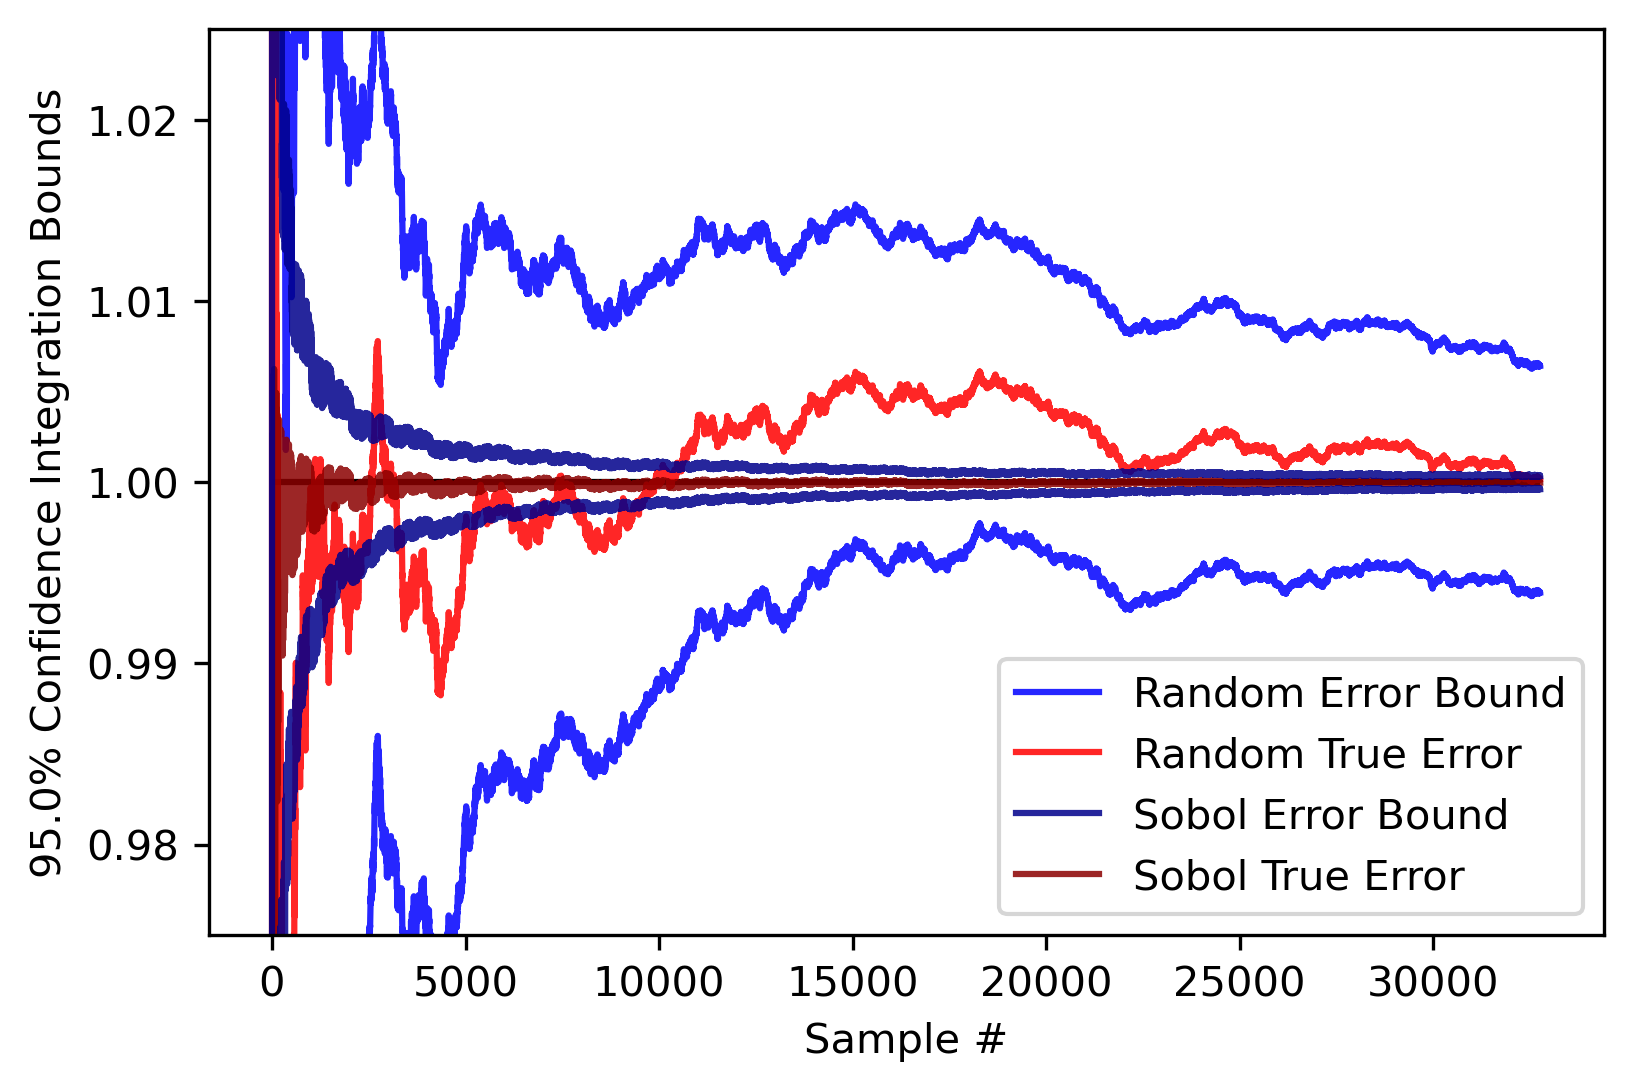
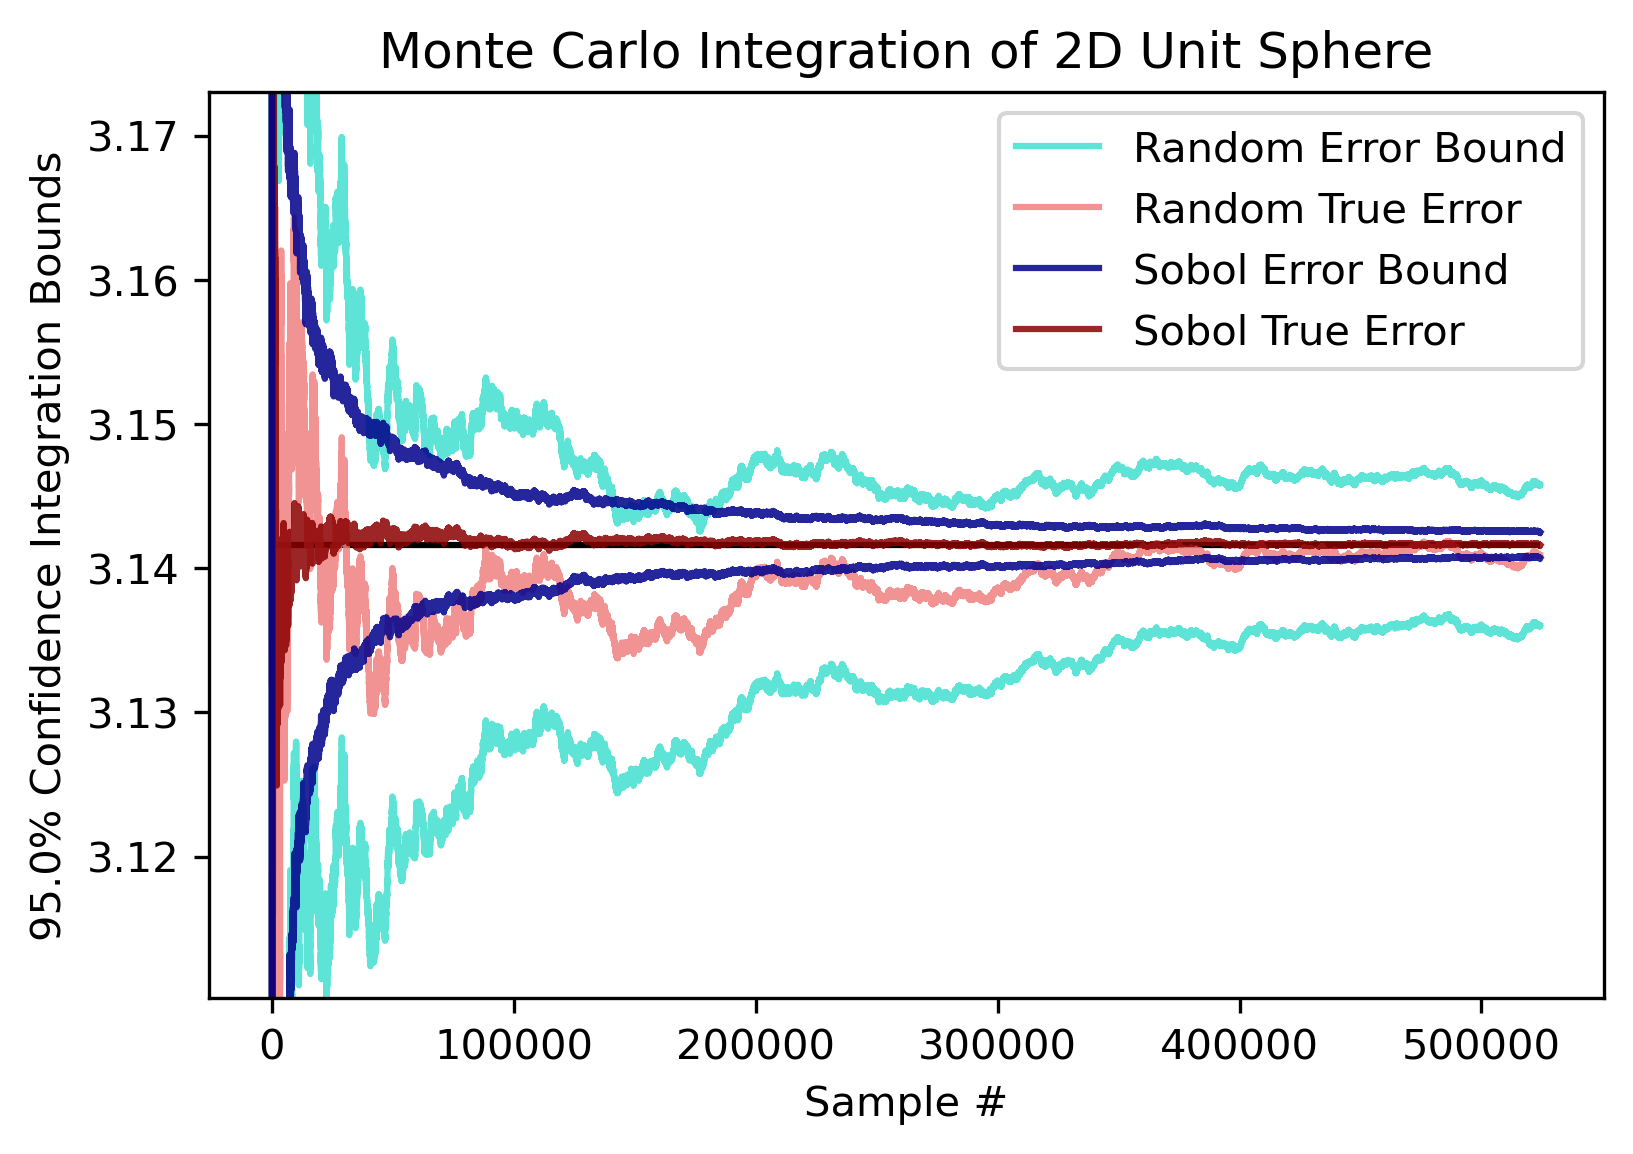
Better sampling error bounds

Changed region(s): [[0.1249, 0.0, 0.9994, 0.9661], [0.0, 0.0935, 0.1249, 0.8103]]

diff --git a/test/n_sphere_sampling_testing.py b/test/n_sphere_sampling_testing.py
@@ -1,0 +1,127 @@
+# n_sphere_sampling_testing.py
+
+import numpy as np
+import scipy
+import matplotlib.pyplot as plt
+from Monaco.mc_sampling import mc_sampling
+from Monaco.integration_statistics import  integration_args_check
+from typing import Union
+from Monaco.gaussian_statistics import pct2sig
+
+n = int(2**19)
+conf = 0.95
+seed = 251060543
+d = 2
+r = 1
+volume_scale = 1.1
+volume = (2*r*volume_scale)**d
+
+def unit_d_sphere_vol(d):
+    return np.pi**(d/2) / scipy.special.gamma(d/2 + 1)*(r**d)
+
+trueans = unit_d_sphere_vol(d)
+
+def integration_error(nums         : list[float],
+                      volume       : float            = 1,  # By default, returns an unscaled error
+                      conf         : float            = 0.95,
+                      dimension    : Union[None, int] = None, # required only for samplemethod='sobol'
+                      samplemethod : str              = 'random', # 'random' or 'sobol'
+                      runningError : bool             = False,
+                      ) -> Union[float, list[float]]:
+    
+    integration_args_check(error=None, volume=volume, stdev=None, conf=conf, samplemethod=samplemethod, dimension=dimension)
+
+    n = len(nums)
+    if n == 1:
+        error1sig = volume
+    
+    elif not runningError:
+        stdev = np.std(nums, ddof=1)
+        if samplemethod == 'random':
+            error1sig = volume*stdev/np.sqrt(n)
+        elif samplemethod == 'sobol':
+            error1sig = volume*stdev*np.log(n)**dimension/n
+    
+    else:
+        # Use Welford's algorithm to calculate the running variance
+        M = np.zeros(n) # Running mean
+        S = np.zeros(n) # Sum of variances
+        M[0] = nums[0]
+        for i in range(1,n):
+            M[i] = M[i-1] + (nums[i]-M[i-1])/(i+1)
+            S[i] = S[i-1] + (nums[i]-M[i-1])*(nums[i]-M[i])
+        variances = np.zeros(n)
+        variances[1:] = S[1:]/np.arange(1, n)
+        stdevs = np.sqrt(variances)
+                
+        #error1sig_random = volume*stdevs/np.sqrt(np.arange(1, n+1))
+        #error1sig_random = volume*np.sqrt(6**(-1*dimension)*(1 - 2**(-1*dimension))/np.arange(1, n+1))
+        error1sig_random = volume*np.sqrt((2**(-1*dimension) - 3**(-1*dimension))/np.arange(1, n+1))
+        if samplemethod == 'random':
+            error1sig = error1sig_random
+        elif samplemethod == 'sobol':
+            error1sig_sobol = volume*stdevs*np.log(np.arange(1, n+1))**dimension/np.arange(1, n+1)
+            #error1sig_sobol = volume*np.sqrt((2**(-1*dimension) - 3**(-1*dimension))/np.arange(1, n+1))
+            error1sig = error1sig_sobol
+        
+        error1sig[error1sig == 0] = max(error1sig) # Leading zeros will throw off plots, fill with reasonable dummy data
+
+    error = error1sig*pct2sig(conf)
+    return error
+
+samplepointsrandom = []
+samplepointssobol = []
+for i in range(d):
+    samplepointsrandom.append(mc_sampling(ndraws=n, method='random', ninvar=i+1, seed=seed+i)) # Need different seed for random draws
+    samplepointssobol.append( mc_sampling(ndraws=n, method='sobol',  ninvar=i+1, seed=None, ninvar_max=d))
+
+# Discrepancy calculations take too long
+'''
+samplepointsrandom = np.array(samplepointsrandom).transpose()
+samplepointsrandom = np.reshape(samplepointsrandom, (n, d))
+errrandom = scipy.stats.qmc.discrepancy(samplepointsrandom)
+samplepointssobol = np.array(samplepointssobol).transpose()
+samplepointssobol = np.reshape(samplepointssobol, (n, d))
+errsobol = scipy.stats.qmc.discrepancy(samplepointssobol)
+'''
+
+distancerandom = [np.sqrt(np.sum([samplepointsrandom[i][j]**2 for i in range(d)])) for j in range(n)]
+distancesobol  = [np.sqrt(np.sum([ samplepointssobol[i][j]**2 for i in range(d)])) for j in range(n)]
+
+insphererandom = np.array([int(x*r*volume_scale < r) for x in distancerandom])
+inspheresobol  = np.array([int(x*r*volume_scale < r) for x in distancesobol])
+
+cummeanrandom = volume*np.cumsum(insphererandom)/np.arange(1 ,n+1)
+cummeansobol  = volume*np.cumsum(inspheresobol) /np.arange(1 ,n+1)
+
+errrandom = integration_error(distancerandom, volume=volume, conf=conf, dimension=d, samplemethod='random', runningError=True)
+errsobol  = integration_error(distancesobol,  volume=volume, conf=conf, dimension=d, samplemethod='sobol', runningError=True)
+
+#'''
+alpha = 0.85
+plt.figure()
+plt.hlines(trueans, 0, n, 'k')
+h1, = plt.plot(cummeanrandom, 'lightcoral', alpha=alpha)
+h3, = plt.plot(cummeanrandom+errrandom, 'turquoise', alpha=alpha)
+plt.plot(cummeanrandom-errrandom, 'turquoise', alpha=alpha)
+h2, = plt.plot(cummeansobol , 'darkred', alpha=alpha)
+h4, = plt.plot(cummeansobol +errsobol, 'darkblue', alpha=alpha)
+plt.plot(cummeansobol -errsobol, 'darkblue', alpha=alpha)
+plt.ylim((trueans*0.99, trueans*1.01))
+plt.ylabel(f'{round(conf*100, 2)}% Confidence Integration Bounds')
+plt.xlabel('Sample #')
+plt.legend([h3, h1, h4, h2], ['Random Error Bound', 'Random True Error', 'Sobol Error Bound', 'Sobol True Error'])
+plt.title(f'Monte Carlo Integration of {d}D Unit Sphere')
+
+plt.figure()
+h1, = plt.plot(np.abs(cummeanrandom - trueans), 'lightcoral', alpha=alpha)
+h2, = plt.plot(np.abs(cummeansobol  - trueans), 'darkred', alpha=alpha)
+h3, = plt.loglog(errrandom, 'turquoise', alpha=alpha)
+h4, = plt.loglog(errsobol, 'darkblue', alpha=alpha)
+plt.ylabel(f'{round(conf*100, 2)}% Confidence Absolute Error')
+plt.xlabel('Sample #')
+plt.legend([h3, h1, h4, h2], ['Random Error Bound', 'Random True Error', 'Sobol Error Bound', 'Sobol True Error'])
+plt.title(f'Monte Carlo Integration of {d}D Unit Sphere')
+#'''
+
+

diff --git a/Monaco/integration_statistics.py b/Monaco/integration_statistics.py
@@ -6,9 +6,9 @@ from typing import Union
 from Monaco.gaussian_statistics import pct2sig
 
 def integration_error(nums         : list[float],
+                      dimension    : int, 
                       volume       : float            = 1,  # By default, returns an unscaled error
                       conf         : float            = 0.95,
-                      dimension    : Union[None, int] = None, # required only for samplemethod='sobol'
                       samplemethod : str              = 'random', # 'random' or 'sobol'
                       runningError : bool             = False,
                       ) -> Union[float, list[float]]:
@@ -21,10 +21,12 @@ def integration_error(nums         : list[float],
     
     elif not runningError:
         stdev = np.std(nums, ddof=1)
+        error1sig_random = volume*np.sqrt((2**(-1*dimension) - 3**(-1*dimension))/n)
         if samplemethod == 'random':
-            error1sig = volume*stdev/np.sqrt(n)
+            error1sig = error1sig_random
         elif samplemethod == 'sobol':
-            error1sig = volume*stdev*np.log(n)**dimension/n
+            error1sig_sobol = volume*stdev*np.log(n)**dimension/n
+            error1sig = np.minimum(error1sig_random, error1sig_sobol)
     
     else:
         # Use Welford's algorithm to calculate the running variance
@@ -38,10 +40,12 @@ def integration_error(nums         : list[float],
         variances[1:] = S[1:]/np.arange(1, n)
         stdevs = np.sqrt(variances)
                 
+        error1sig_random = volume*np.sqrt((2**(-1*dimension) - 3**(-1*dimension))/np.arange(1, n+1))
         if samplemethod == 'random':
-            error1sig = volume*stdevs/np.sqrt(np.arange(1, n+1))
+            error1sig = error1sig_random
         elif samplemethod == 'sobol':
-            error1sig = volume*stdevs*np.log(np.arange(1, n+1))**dimension/np.arange(1, n+1)
+            error1sig_sobol = volume*stdevs*np.log(np.arange(1, n+1))**dimension/np.arange(1, n+1)
+            error1sig = np.minimum(error1sig_random, error1sig_sobol)
         
         error1sig[error1sig == 0] = max(error1sig) # Leading zeros will throw off plots, fill with reasonable dummy data
 
@@ -51,9 +55,9 @@ def integration_error(nums         : list[float],
 
 def integration_n_from_err(error        : float,
                            volume       : float,
-                           stdev        : float, 
+                           dimension    : int,
                            conf         : float            = 0.95,
-                           dimension    : Union[None, int] = None, # required only for samplemethod='sobol'
+                           stdev        : float            = None, # required only for samplemethod='sobol' 
                            samplemethod : str              = 'random', # 'random' or 'sobol'
                            ) -> int:
     # We generally do not know a-priori what the standard deviation will be, so
@@ -65,16 +69,20 @@ def integration_n_from_err(error        : float,
     
     integration_args_check(error=error, volume=volume, stdev=stdev, conf=conf, samplemethod=samplemethod, dimension=dimension)
     
+    n_random = (volume*pct2sig(conf)*stdev/error)**2
     if samplemethod == 'random':
-        n = (volume*pct2sig(conf)*stdev/error)**2
+        n = n_random
     elif samplemethod == 'sobol':
         def f(n):
             return volume*stdev*pct2sig(conf)*np.log(n)**dimension/n - error
         try:
             rootResults = root_scalar(f, method='brentq', bracket=[2**8, 2**31-1], xtol=0.1, maxiter=int(1e3))
-            n = rootResults.root
-        except Exception:
-            raise ValueError(f"Cannot reach error tolerance of ±{error}. Adjust error tolerance or fall back to samplemethod='random'")
+            n_sobol = rootResults.root
+            n = np.min([n_random, n_sobol])
+        except:
+            # For higher than 3 dimensions, reaching n may be difficult, and will be much larger than n_random anyways
+            # warn(f"Cannot reach error tolerance of ±{error}. Falling back to samplemethod='random'")
+            n = n_random
         
     n = int(np.ceil(n))
     return n
@@ -85,7 +93,7 @@ def integration_args_check(error        : float,
                            stdev        : float, 
                            conf         : float,
                            samplemethod : str,
-                           dimension    : Union[None, int],
+                           dimension    : int,
                           ):
     if (not error is None) and (error < 0):
         raise ValueError(f"{error=} must be positive")
@@ -97,8 +105,8 @@ def integration_args_check(error        : float,
         raise ValueError(f"{conf=} must be between 0 and 1")
     if samplemethod not in ('random', 'sobol'):
         raise ValueError(f"{samplemethod=} must be either 'random', or 'sobol'")
-    if samplemethod == 'sobol' and (dimension is None or dimension < 1):
-        raise ValueError(f'{dimension=} must be a positive integer defined for {samplemethod=}')
+    if dimension < 1:
+        raise ValueError(f'{dimension=} must be a positive integer')
 
 
 def max_variance(low  : float,

diff --git a/test/test_integration_statistics.py b/test/test_integration_statistics.py
@@ -4,14 +4,14 @@ import pytest
 from Monaco.integration_statistics import integration_error, integration_n_from_err, max_variance, max_stdev
 
 def test_integration_error():
-    assert integration_error([1, 0, 2], conf=0.95, samplemethod='random', runningError=False) == pytest.approx(1.1315857)
-    assert integration_error([1, 0, 2], conf=0.95, samplemethod='random', runningError=True) == pytest.approx([1.1315857, 0.9799819, 1.1315857])
-    assert integration_error([1, 0, 2], conf=0.95, dimension=1, samplemethod='sobol', runningError=False) == pytest.approx(0.7177468)
-    assert integration_error([1, 0, 2], conf=0.95, dimension=1, samplemethod='sobol', runningError=True) == pytest.approx([0.7177468, 0.4803176, 0.7177468])
+    assert integration_error([1, 0, 2], conf=0.95, dimension=1, samplemethod='random', runningError=False) == pytest.approx(0.4619679)
+    assert integration_error([1, 0, 2], conf=0.95, dimension=1, samplemethod='random', runningError=True) == pytest.approx([0.8001519, 0.5657928, 0.4619679])
+    assert integration_error([1, 0, 2], conf=0.95, dimension=1, samplemethod='sobol',  runningError=False) == pytest.approx(0.4619679)
+    assert integration_error([1, 0, 2], conf=0.95, dimension=1, samplemethod='sobol',  runningError=True) == pytest.approx([0.4803176, 0.4803176, 0.4619679])
 
 
 def test_integration_n_from_err():
-    assert integration_n_from_err(error=0.01, volume=1, stdev=1, conf=0.95, samplemethod='random') == 38415
+    assert integration_n_from_err(error=0.01, volume=1, dimension=1, stdev=1, conf=0.95, samplemethod='random') == 38415
     assert integration_n_from_err(error=0.01, volume=1, dimension=1, stdev=1, conf=0.95, samplemethod='sobol') == 1424
 
 
@@ -31,12 +31,12 @@ if __name__ == '__main__':
     import matplotlib.pyplot as plt
     from Monaco.mc_sampling import mc_sampling
 
-    print(integration_error([1, 0, 2], conf=0.95, samplemethod='random', runningError=False))                  # Expected: 1.1315857
-    print(integration_error([1, 0, 2], conf=0.95, samplemethod='random', runningError=True))                   # Expected: [1.1315857, 0.9799819, 1.1315857]
-    print(integration_error([1, 0, 2], conf=0.95, dimension=1, samplemethod='sobol', runningError=False))      # Expected: 0.7177468
-    print(integration_error([1, 0, 2], conf=0.95, dimension=1, samplemethod='sobol', runningError=True))       # Expected: [0.7177468, 0.4803176, 0.7177468]
-    print(integration_n_from_err(error=0.01, volume=1, dimension=1, stdev=1, conf=0.95, samplemethod='sobol')) # Expected: 1424
-    print(integration_n_from_err(error=0.01, volume=1, stdev=1, conf=0.95, samplemethod='random'))             # Expected: 38415
+    print(integration_error([1, 0, 2], dimension=1, conf=0.95, samplemethod='random', runningError=False))      # Expected: 0.4619679
+    print(integration_error([1, 0, 2], dimension=1, conf=0.95, samplemethod='random', runningError=True))       # Expected: [0.8001519, 0.5657928, 0.4619679]
+    print(integration_error([1, 0, 2], dimension=1, conf=0.95, samplemethod='sobol',  runningError=False))      # Expected: 0.4619679
+    print(integration_error([1, 0, 2], dimension=1, conf=0.95, samplemethod='sobol',  runningError=True))       # Expected: [0.4803176, 0.4803176, 0.4619679]
+    print(integration_n_from_err(error=0.01, volume=1, dimension=1, stdev=1, conf=0.95, samplemethod='random')) # Expected: 38415
+    print(integration_n_from_err(error=0.01, volume=1, dimension=1, stdev=1, conf=0.95, samplemethod='sobol'))  # Expected: 1424
     print(max_variance(low=0, high=1))  # Expected: 0.25
     print(max_stdev(low=0, high=1))     # Expected: 0.5
     
@@ -49,8 +49,8 @@ if __name__ == '__main__':
     
     cummean1 = np.cumsum(x1)/np.arange(1 ,n+1)
     cummean2 = np.cumsum(x2)/np.arange(1 ,n+1)
-    err1 = integration_error(x1, volume=1, conf=conf, samplemethod='random', runningError=True)
-    err2 = integration_error(x2, volume=1, conf=conf, dimension=1, samplemethod='sobol', runningError=True)
+    err1 = integration_error(x1, dimension=1, volume=1, conf=conf, samplemethod='random', runningError=True)
+    err2 = integration_error(x2, dimension=1, volume=1, conf=conf, samplemethod='sobol', runningError=True)
     alpha = 0.85
     plt.figure()
     plt.hlines(midpoint, 0, n, 'k')

diff --git a/examples/integration/integration_example_monte_carlo_sim.py b/examples/integration/integration_example_monte_carlo_sim.py
@@ -46,16 +46,17 @@ error = 0.01
 conf = 0.95
 stdev = max_stdev(low=0, high=1)
 print(f'Maximum possible standard deviation: {stdev:0.3f}')
-nRandom = integration_n_from_err(error=error, volume=totalArea, stdev=stdev, conf=conf, samplemethod='random')
+nRandom = integration_n_from_err(error=error, volume=totalArea, stdev=stdev, conf=conf, dimension=dimension, samplemethod='random')
 nSobol  = integration_n_from_err(error=error, volume=totalArea, stdev=stdev, conf=conf, dimension=dimension, samplemethod='sobol')
 print(f'Number of samples needed to reach an error ≤ ±{error} at {round(conf*100, 2)}% confidence if using random vs sobol sampling: {nRandom} vs {nSobol}')
 ndraws = next_power_of_2(nSobol)  # The sobol methods need to be a power of 2 for best performance and balance
+print(f'Rounding up to next power of 2: {ndraws} samples')
 
 seed=123639
 
 def integration_example_monte_carlo_sim():
 
-    sim = MCSim(name='integration', ndraws=ndraws, fcns=fcns, firstcaseisnom=firstcaseisnom, samplemethod=samplemethod, seed=seed, cores=4, savecasedata=savecasedata, verbose=True, debug=True)
+    sim = MCSim(name='integration', ndraws=ndraws, fcns=fcns, firstcaseisnom=firstcaseisnom, samplemethod=samplemethod, seed=seed, cores=4, savecasedata=savecasedata, savesimdata=False, verbose=True, debug=True)
     
     sim.addInVar(name='x', dist=uniform, distkwargs={'loc':xrange[0], 'scale':(xrange[1] - xrange[0])}) # -1 <= x <= 1
     sim.addInVar(name='y', dist=uniform, distkwargs={'loc':yrange[0], 'scale':(yrange[1] - yrange[0])}) # -1 <= y <= 1

diff --git a/Monaco/MCSim.py b/Monaco/MCSim.py
@@ -210,7 +210,7 @@ class MCSim:
         self.endtime = datetime.now()
         self.runtime = self.endtime - self.starttime
         
-        vprint(self.verbose, f'\nRuntime: {self.runtime}', flush=True)
+        vprint(self.verbose, f'Simulation complete! Runtime: {self.runtime}', flush=True)
         
         if self.savesimdata:
             vprint(self.verbose, 'Saving sim results to file...', flush=True)

diff --git a/docs/sampling_methods.md b/docs/sampling_methods.md
@@ -30,11 +30,11 @@ Also implemented for completeness are the ```halton```, ```halton_random```, and
 What sampling method should you use? ```sobol_random``` has been shown in literature to generally give the best results with fastest convergence, so it is the default. Make sure to use a power of 2 for the number of draws if performing integration. If you are drawing only from uniform distributions, you can fall back to ```sobol``` for a speedup.  ```random``` sampling should only be used as a teaching tool, if a flat frequency spectra is critical, or if the sampling time is otherwise prohibitively long. The others should not be used.
 
 ### Integration
-For integration, random sampling will converge at a big O rate of <img src="https://render.githubusercontent.com/render/math?math=O(\frac{1}{\sqrt{n}})">, while sobol sampling over *d* dimensions will converge at the faster <img src="https://render.githubusercontent.com/render/math?math=O(\frac{\log(n)^d}{n})">. Here are the error plots for a 1-dimensional integral with a true area of 1.
+For integration, random sampling will converge at a big O rate of <img src="https://render.githubusercontent.com/render/math?math=O(\frac{1}{\sqrt{n}})">, while sobol sampling over *d* dimensions will eventually converge at the faster <img src="https://render.githubusercontent.com/render/math?math=O(\frac{\log(n)^d}{n})">. However, the *n* required to reach this convergence rate grows superexponentially with *d*, and for integrals larger than 3 dimensions sobol sampling will generally perform no better than random. So, if *d ≥ 4*, it is recommended to use random sampling for the speedup. Here are the error plots for a 2-D integral of the unit circle (which converges to π).
 
 <p float="left" align="center">
-<img width="440" height="300" src="random_vs_sobol_convergence.png">  
-<img width="440" height="300" src="random_vs_sobol_error.png">  
+<img width="440" height="300" src="random_vs_sobol_convergence.png">
+<img width="440" height="300" src="random_vs_sobol_error.png">
 </p>
 
 ### Comparison Plots

diff --git a/test/README.md b/test/README.md
@@ -10,3 +10,4 @@ Here are the tests which generate plots that may need to be reviewed manually:
 
 Here are the tests which are diagnostic but do not test functionality:
 * pooling_speed_testing
+* n_sphere_sampling_testing
